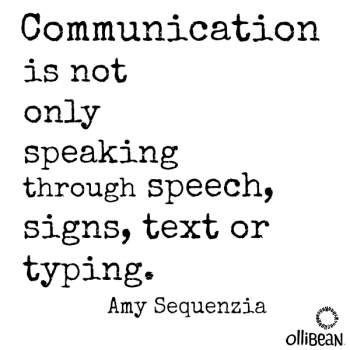
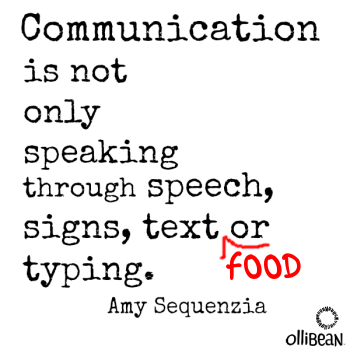
new image

Changed region(s): [[0.6286, 0.6571, 0.8571, 0.8]]

diff --git a/Talk-Coaching/index.html b/Talk-Coaching/index.html
@@ -29,7 +29,7 @@
 					<li class="color-yellow next">The boss is a leader</li>
 					<li class="color-yellow next">We are not soldiers</li>
 					<li class="color-yellow next"><b>We are volunteers</b>
-						<ul><li class="color-yellow next">It's a cool name for a movie :-D</li></ul>
+						<ul><li class="color-yellow"><u>It's a cool name for a movie :-D</u></li></ul>
 					</li>
 				</ul>
 			</div></section>
@@ -60,7 +60,8 @@
 			</div></section>
 		<section class="slide cover"><div>
 				<img src="pictures/italian_gesture.jpg">
-				<p class="next"><img src="pictures/communication.png" style="width:auto;height:auto;top: 25%;left: 35%;"></p>
+				<p class="next"><img src="pictures/italian_food.jpg" style="width:auto;height:auto;top: 3%;left: 30%;"></p>
+				<p class="next"><img src="pictures/communication.png" style="width:auto;height:auto;top: 25%;left: 33%;"></p>
 			</div></section>
 		<section class="slide cover"><div>
 				<img src="pictures/coaching-quotes.png">
